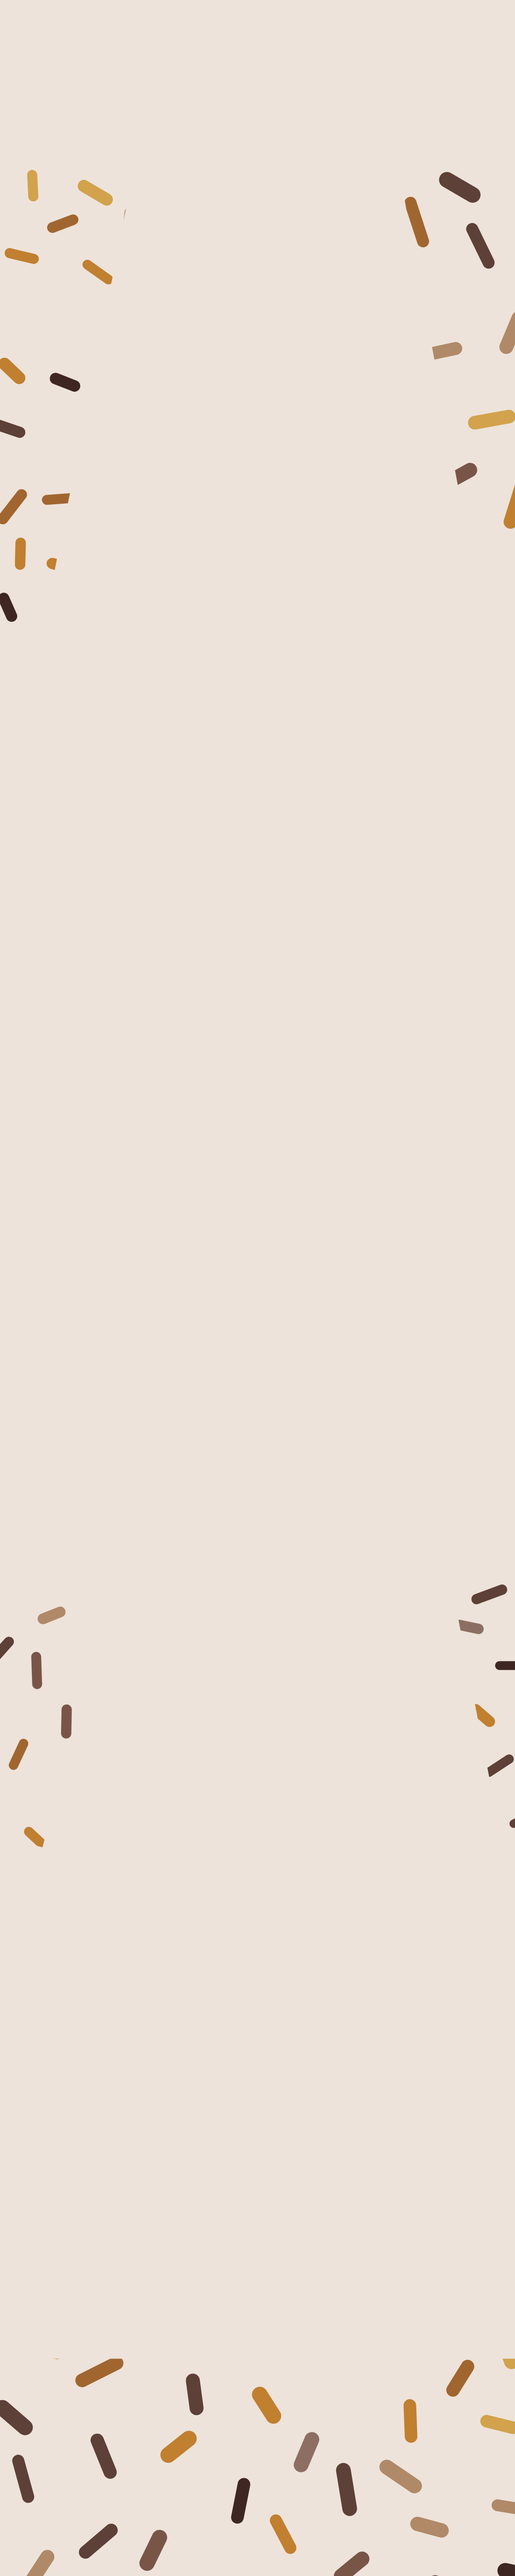
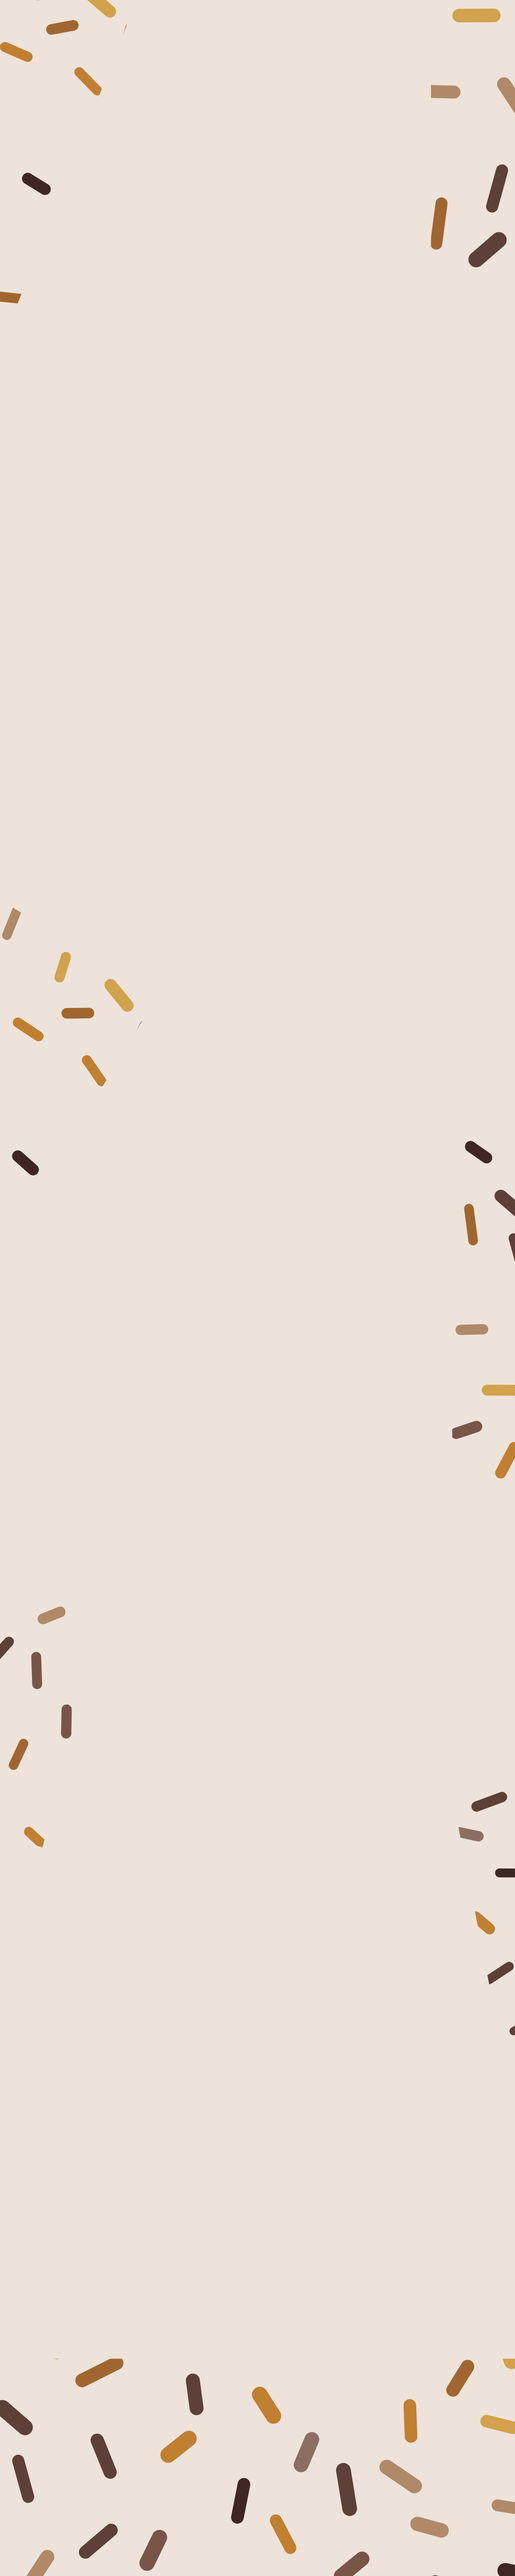
Section Trending iniciada

diff --git a/index.html b/index.html
@@ -50,9 +50,10 @@
     <main id="container">
         <!-- HOME -->
          <section id="home">
-            <img src="src/images/kitdoces.PNG" 
+            <img src="src/images/bolo_home.png" 
             alt="Encomende o seu kit"
             class="home-image">
+            
             <h1 class="home-title">
             Cuidando de cada detalhe, 
             <span> do TOPO ao RECHEIO.</span> <!-- span separado para aplicar cor diferente via CSS -->
@@ -72,6 +73,161 @@
             </div>
 
          </section>
+         
+         <!-- Trending -->
+          <section id="Trending">
+            <h2 class="title">
+                Em alta
+            </h2>
+            <div class="trending-cards">
+                <div class="trending-card">
+                    <img 
+                      src="src/images/trending/cardmassa1.png" 
+                      alt="Massa de Red Velvet"
+                    >
+
+                    <div class="trending-rate">
+                        <p>
+                            <i class="fa-solid fa-circle"></i>
+                        </p>
+                    </div>
+
+                    <p class="trending-card-description">
+                        Massa de
+                        <span>Red Velvet</span>
+                    </p>
+                </div>
+
+            </div>
+
+            <div class="trending-cards">
+                <div class="trending-card">
+                    <img 
+                      src="src/images/trending/cardmassa2.png" 
+                      alt="Massa de Chocolate"
+                    >
+
+                    <div class="trending-rate">
+                        <p>
+                            <i class="fa-solid fa-circle"></i>
+                        </p>
+                    </div>
+
+                    <p class="trending-card-description">
+                        Massa de
+                        <span>Chocolate</span>
+                    </p>
+                </div>
+
+            </div>
+
+            <div class="trending-cards">
+                <div class="trending-card">
+                    <img 
+                      src="src/images/trending/cardmassa3.png" 
+                      alt="Massa Branca"
+                    >
+
+                    <div class="trending-rate">
+                        <p>
+                            <i class="fa-solid fa-circle"></i>
+                        </p>
+                    </div>
+
+                    <p class="trending-card-description">
+                        Massa
+                        <span>Branca</span>
+                    </p>
+                </div>
+
+            </div>
+
+            <div class="trending-cards">
+                <div class="trending-card">
+                    <img 
+                      src="src/images/trending/cardmassa4.png" 
+                      alt="Massa de Pão de mel"
+                    >
+
+                    <div class="trending-rate">
+                        <p>
+                            <i class="fa-solid fa-circle"></i>
+                        </p>
+                    </div>
+
+                    <p class="trending-card-description">
+                        Massa de
+                        <span>Pão de Mel</span>
+                    </p>
+                </div>
+
+            </div>
+
+            <div class="trending-cards">
+                <div class="trending-card">
+                    <img 
+                      src="src/images/trending/cardmassa5.png" 
+                      alt="Ameixa"
+                    >
+
+                    <div class="trending-rate">
+                        <p>
+                            <i class="fa-solid fa-circle"></i>
+                        </p>
+                    </div>
+
+                    <p class="trending-card-description">
+                        Massa de
+                        <span>Ameixa</span>
+                    </p>
+                </div>
+
+            </div>
+
+            <div class="trending-cards">
+                <div class="trending-card">
+                    <img 
+                      src="src/images/trending/cardmassa6.png" 
+                      alt="Massa de Maracujá e Abacaxi"
+                    >
+
+                    <div class="trending-rate">
+                        <p>
+                            <i class="fa-solid fa-circle"></i>
+                        </p>
+                    </div>
+
+                    <p class="trending-card-description">
+                        Massa de
+                        <span>Maracujá e Abacaxi</span>
+                    </p>
+                </div>
+
+            </div>
+
+            <div class="trending-cards">
+                <div class="trending-card">
+                    <img 
+                      src="src/images/trending/cardmassa7.png" 
+                      alt="Massa de Pistache"
+                    >
+
+                    <div class="trending-rate">
+                        <p>
+                            <i class="fa-solid fa-circle"></i>
+                        </p>
+                    </div>
+
+                    <p class="trending-card-description">
+                        Massa de
+                        <span>Pistache</span>
+                    </p>
+                </div>
+
+            </div>
+
+    
+          </section>
     </main>
     <script src="src/js/script.js"></script> <!-- carregado no fim do body para não bloquear a renderização da página -->
 </body>

diff --git a/src/css/style.css b/src/css/style.css
@@ -62,6 +62,7 @@ a.btn{
     gap: 12px;
     align-items: center;
     min-height: calc(100vh - 96px); /* ocupa a tela toda, descontando a altura do header */
+    padding: 32px 4%;
     padding-top: clamp(0px, 5vw, 32px); /* espaçamento flexível que se ajusta ao tamanho da tela */
 
     .home-image{
